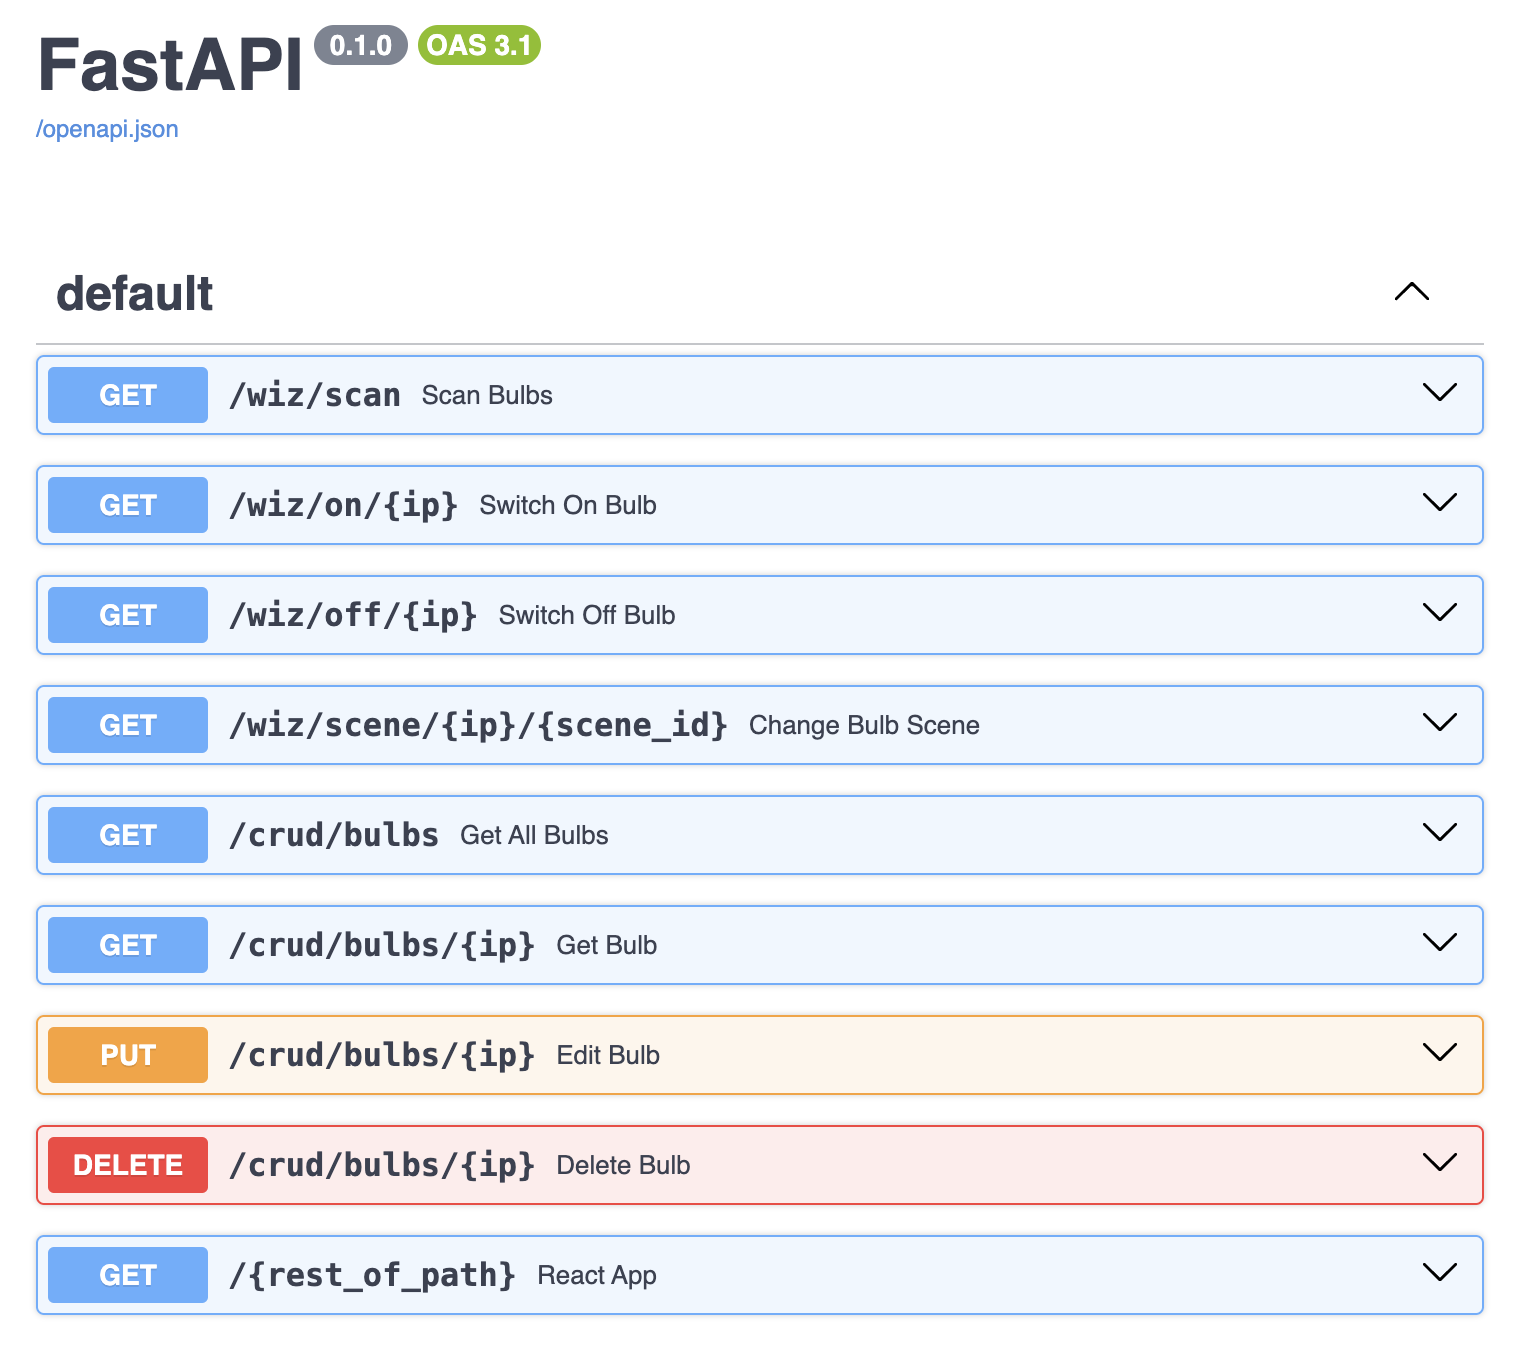
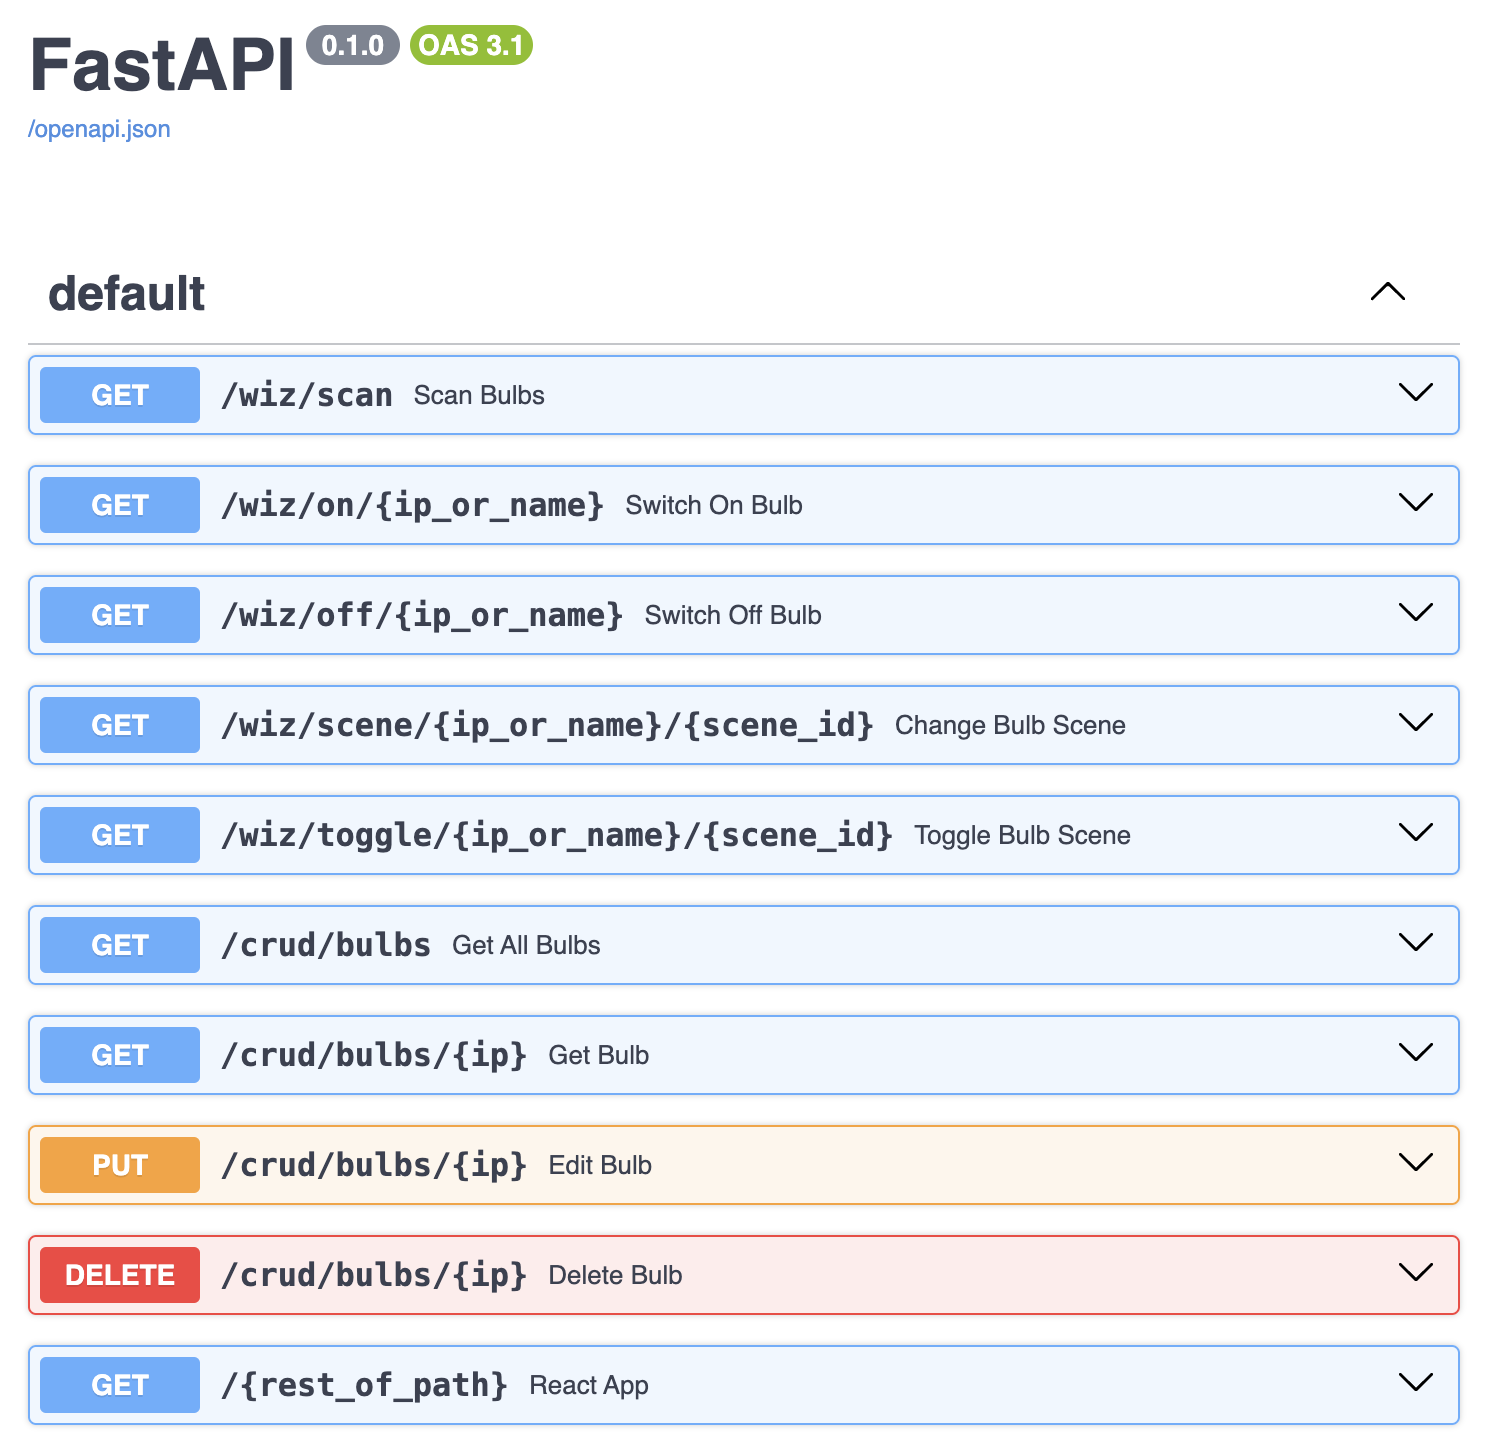
Minor improvements

Changed region(s): [[0.0, 0.1872, 0.9879, 0.9985], [0.0, 0.0, 0.3705, 0.1248], [0.0, 0.9361, 0.0309, 0.9673]]

diff --git a/WiZ_FastAPI/main.py b/WiZ_FastAPI/main.py
@@ -46,64 +46,63 @@ async def scan_bulbs(db: Session = Depends(db.get_db)):
         return {'error': f"Scan error: {error}"}
 
 
-@app.get("/wiz/on/{ip}")
-async def switch_on_bulb(ip: str, db: Session = Depends(db.get_db)):
+@app.get("/wiz/on/{ip_or_name}")
+async def switch_on_bulb(ip_or_name: str, db: Session = Depends(db.get_db)):
     try:
         bulbs = []
-        if ip == 'all':
-            db_bulbs = repo.get_online_bulbs(db)
-            for bulb in db_bulbs:
-                bulbs.append(await wiz.on(bulb.ip, db))
-        else:
-            bulb = repo.get_bulb(db, ip)
-            if not bulb:
-                return {'error': f"Bulb not found '{ip}'"}
-            bulbs.append(await wiz.on(ip, db))
+        db_bulbs = repo.get_online_bulbs(db) if ip_or_name == 'all' else repo.get_bulbs(db, ip_or_name)
+        for bulb in db_bulbs:
+            bulbs.append(await wiz.on(bulb.ip, db))
 
         print(f'on: {bulbs}')
         return {'bulbs': bulbs}
     except Exception as error:
-        return {'error': f"Cannot on '{ip}': {error}"}
+        return {'error': f"Cannot on '{ip_or_name}': {error}"}
 
 
-@app.get("/wiz/off/{ip}")
-async def switch_off_bulb(ip: str, db: Session = Depends(db.get_db)):
+@app.get("/wiz/off/{ip_or_name}")
+async def switch_off_bulb(ip_or_name: str, db: Session = Depends(db.get_db)):
     try:
         bulbs = []
-        if ip == 'all':
-            db_bulbs = repo.get_online_bulbs(db)
-            for bulb in db_bulbs:
-                bulbs.append(await wiz.off(bulb.ip, db))
-        else:
-            bulb = repo.get_bulb(db, ip)
-            if not bulb:
-                return {'error': f"Bulb not found '{ip}'"}
-            bulbs.append(await wiz.off(ip, db))
+        db_bulbs = repo.get_online_bulbs(db) if ip_or_name == 'all' else repo.get_bulbs(db, ip_or_name)
+        for bulb in db_bulbs:
+            bulbs.append(await wiz.off(bulb.ip, db))
 
         print(f'off: {bulbs}')
         return {'bulbs': bulbs}
     except Exception as error:
-        return {'error': f"Cannot off '{ip}': {error}"}
+        return {'error': f"Cannot off '{ip_or_name}': {error}"}
 
 
-@app.get("/wiz/scene/{ip}/{scene_id}")
-async def change_bulb_scene(ip: str, scene_id: int, db: Session = Depends(db.get_db)):
+@app.get("/wiz/scene/{ip_or_name}/{scene_id}")
+async def change_bulb_scene(ip_or_name: str, scene_id: int, db: Session = Depends(db.get_db)):
     try:
         bulbs = []
-        if ip == 'all':
-            db_bulbs = repo.get_online_bulbs(db)
-            for bulb in db_bulbs:
-                bulbs.append(await wiz.scene(bulb.ip, scene_id, db))
-        else:
-            bulb = repo.get_bulb(db, ip)
-            if not bulb:
-                return {'error': f"Bulb not found '{ip}'"}
-            bulbs.append(await wiz.scene(ip, scene_id, db))
+        db_bulbs = repo.get_online_bulbs(db) if ip_or_name == 'all' else repo.get_bulbs(db, ip_or_name)
+        for bulb in db_bulbs:
+            bulbs.append(await wiz.scene(bulb.ip, scene_id, db))
 
         print(f'scene: {bulbs}')
         return {'bulbs': bulbs}
     except Exception as error:
-        return {'error': f"Cannot change scene '{ip}': {error}"}
+        return {'error': f"Cannot change scene '{ip_or_name}': {error}"}
+
+
+@app.get("/wiz/toggle/{ip_or_name}/{scene_id}")
+async def toggle_bulb_scene(ip_or_name: str, scene_id: int, db: Session = Depends(db.get_db)):
+    try:
+        bulbs = []
+        db_bulbs = repo.get_online_bulbs(db) if ip_or_name == 'all' else repo.get_bulbs(db, ip_or_name)
+        for bulb in db_bulbs:
+            if bulb.state == 0 or bulb.scene_id != scene_id:
+                bulbs.append(await wiz.scene(bulb.ip, scene_id, db))
+            else:
+                bulbs.append(await wiz.off(bulb.ip, db))
+
+        print(f'toggle: {bulbs}')
+        return {'bulbs': bulbs}
+    except Exception as error:
+        return {'error': f"Cannot toggle scene '{ip_or_name}': {error}"}
 
 
 @app.get("/crud/bulbs")

diff --git a/WiZ_FastAPI/wiz.py b/WiZ_FastAPI/wiz.py
@@ -45,6 +45,8 @@ async def on(ip, db):
         await bulb.turn_on(PilotBuilder(brightness=255))
     except Exception as error:
         print(f'Cannot switch on {ip}: {error}')
+        repo.update_bulb_down(db, ip)
+        return repo.get_bulb(db, ip)
 
     return await update_state(ip, db)
 
@@ -55,6 +57,8 @@ async def off(ip, db):
         await bulb.turn_off()
     except Exception as error:
         print(f'Cannot switch off {ip}: {error}')
+        repo.update_bulb_down(db, ip)
+        return repo.get_bulb(db, ip)
 
     return await update_state(ip, db)
 
@@ -65,5 +69,7 @@ async def scene(ip, scene_id, db):
         await bulb.turn_on(PilotBuilder(scene=scene_id))
     except Exception as error:
         print(f'Cannot change {ip} to scene {scene_id}: {error}')
+        repo.update_bulb_down(db, ip)
+        return repo.get_bulb(db, ip)
 
     return await update_state(ip, db)

diff --git a/WiZ_FastAPI/db.py b/WiZ_FastAPI/db.py
@@ -2,10 +2,10 @@ from sqlalchemy import create_engine
 from sqlalchemy.ext.declarative import declarative_base
 from sqlalchemy.orm import sessionmaker, Session
 
-SQLALCHEMY_DATABASE_URL = "sqlite:///./win_fastapi.db"
+SQLALCHEMY_DATABASE_URL = "sqlite:///./wiz_fastapi.db"
 
 engine = create_engine(
-    SQLALCHEMY_DATABASE_URL, connect_args={"check_same_thread": False}, echo=True
+    SQLALCHEMY_DATABASE_URL, connect_args={"check_same_thread": False}, echo=False
 )
 SessionLocal = sessionmaker(autocommit=False, autoflush=False, bind=engine)
 

diff --git a/WiZ_FastAPI/repo.py b/WiZ_FastAPI/repo.py
@@ -22,6 +22,11 @@ def get_online_bulbs(db):
     return db.query(models.Bulb).filter(models.Bulb.state >= 0).order_by(models.Bulb.name).all()
 
 
+def get_bulbs(db, ip_or_name):
+    return db.query(models.Bulb).filter((models.Bulb.ip == ip_or_name) | (models.Bulb.name == ip_or_name)).order_by(
+        models.Bulb.name).all()
+
+
 def get_bulb(db, ip):
     return db.query(models.Bulb).filter(models.Bulb.ip == ip).first()
 
